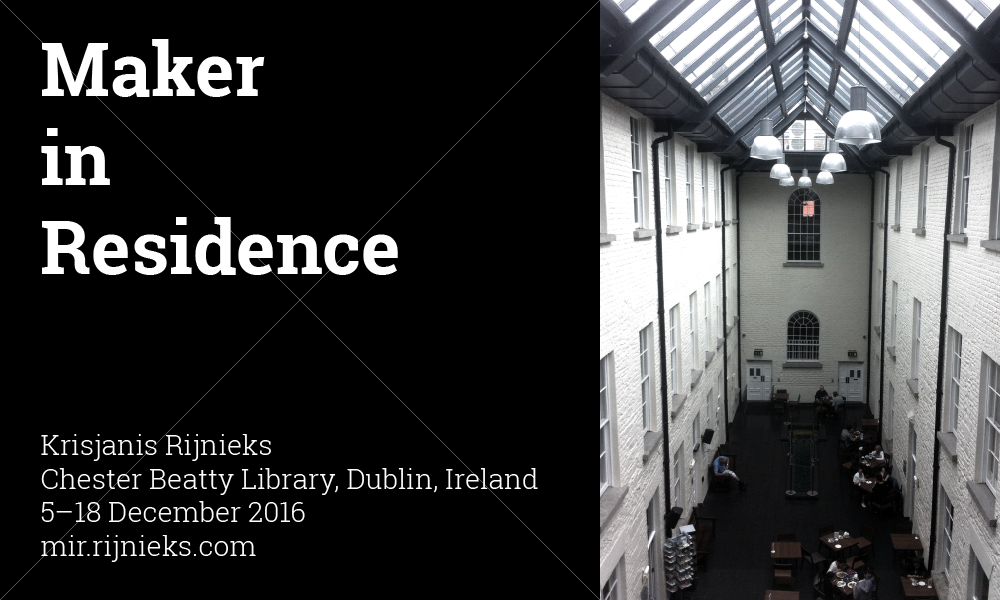
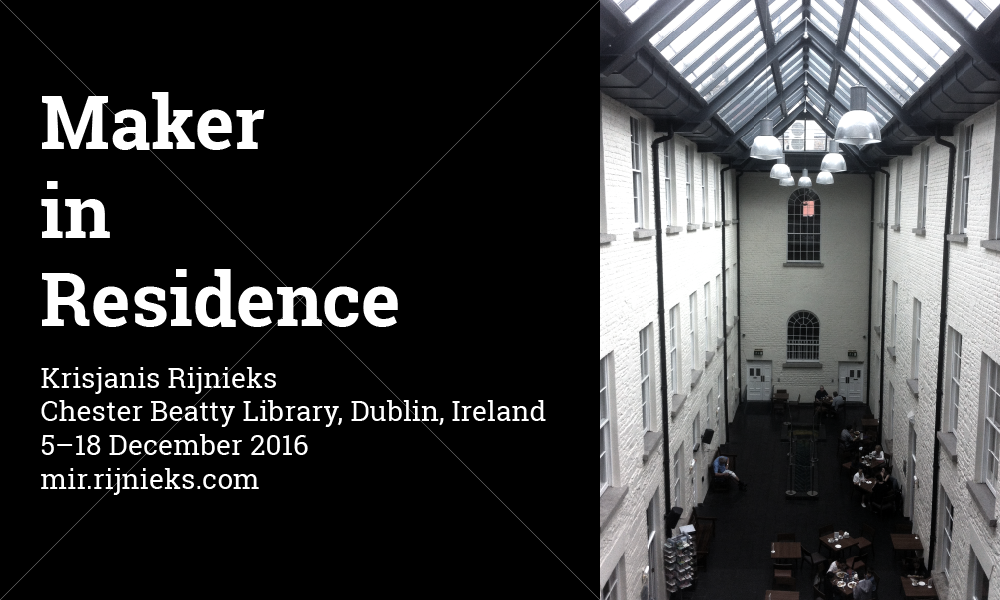
Update ogimage, center text

Changed region(s): [[0.031, 0.06, 0.403, 0.57], [0.031, 0.6, 0.558, 0.87], [0.031, 0.9, 0.248, 0.93]]

diff --git a/public/404.html b/public/404.html
@@ -14,7 +14,7 @@
   
 
   
-  <meta property="og:image" content="http://mir.rijnieks.com/maker-in-residence-facebook.png?v=1"/>
+  <meta property="og:image" content="http://mir.rijnieks.com/maker-in-residence-facebook.png"/>
   <meta property="og:title" content="Maker in Residence"/>
   <meta property="og:description" content="Krisjanis Rijnieks is Maker in Residence at the Chester Beatty Library in Dublin, Ireland. This blog documents the residency from 5 to 18 December 2016."/>
   <meta property="og:url" content="http://mir.rijnieks.com/"/>

diff --git a/public/about/index.html b/public/about/index.html
@@ -14,7 +14,7 @@
   
 
   
-  <meta property="og:image" content="http://mir.rijnieks.com/maker-in-residence-facebook.png?v=1"/>
+  <meta property="og:image" content="http://mir.rijnieks.com/maker-in-residence-facebook.png"/>
   <meta property="og:title" content="Maker in Residence"/>
   <meta property="og:description" content="Krisjanis Rijnieks is Maker in Residence at the Chester Beatty Library in Dublin, Ireland. This blog documents the residency from 5 to 18 December 2016."/>
   <meta property="og:url" content="http://mir.rijnieks.com/"/>

diff --git a/public/index.html b/public/index.html
@@ -14,7 +14,7 @@
   
 
   
-  <meta property="og:image" content="http://mir.rijnieks.com/maker-in-residence-facebook.png?v=1"/>
+  <meta property="og:image" content="http://mir.rijnieks.com/maker-in-residence-facebook.png"/>
   <meta property="og:title" content="Maker in Residence"/>
   <meta property="og:description" content="Krisjanis Rijnieks is Maker in Residence at the Chester Beatty Library in Dublin, Ireland. This blog documents the residency from 5 to 18 December 2016."/>
   <meta property="og:url" content="http://mir.rijnieks.com/"/>

diff --git a/public/post/index.html b/public/post/index.html
@@ -14,7 +14,7 @@
   
 
   
-  <meta property="og:image" content="http://mir.rijnieks.com/maker-in-residence-facebook.png?v=1"/>
+  <meta property="og:image" content="http://mir.rijnieks.com/maker-in-residence-facebook.png"/>
   <meta property="og:title" content="Maker in Residence"/>
   <meta property="og:description" content="Krisjanis Rijnieks is Maker in Residence at the Chester Beatty Library in Dublin, Ireland. This blog documents the residency from 5 to 18 December 2016."/>
   <meta property="og:url" content="http://mir.rijnieks.com/"/>

diff --git a/public/post/introduction/index.html b/public/post/introduction/index.html
@@ -14,7 +14,7 @@
   
 
   
-  <meta property="og:image" content="http://mir.rijnieks.com/maker-in-residence-facebook.png?v=1"/>
+  <meta property="og:image" content="http://mir.rijnieks.com/maker-in-residence-facebook.png"/>
   <meta property="og:title" content="Maker in Residence"/>
   <meta property="og:description" content="Krisjanis Rijnieks is Maker in Residence at the Chester Beatty Library in Dublin, Ireland. This blog documents the residency from 5 to 18 December 2016."/>
   <meta property="og:url" content="http://mir.rijnieks.com/"/>

diff --git a/public/post/some-sketches/index.html b/public/post/some-sketches/index.html
@@ -14,7 +14,7 @@
   
 
   
-  <meta property="og:image" content="http://mir.rijnieks.com/maker-in-residence-facebook.png?v=1"/>
+  <meta property="og:image" content="http://mir.rijnieks.com/maker-in-residence-facebook.png"/>
   <meta property="og:title" content="Maker in Residence"/>
   <meta property="og:description" content="Krisjanis Rijnieks is Maker in Residence at the Chester Beatty Library in Dublin, Ireland. This blog documents the residency from 5 to 18 December 2016."/>
   <meta property="og:url" content="http://mir.rijnieks.com/"/>

diff --git a/themes/hyde/layouts/partials/head.html b/themes/hyde/layouts/partials/head.html
@@ -16,7 +16,7 @@
   {{ end }}
 
   <!-- Facebook -->
-  <meta property="og:image" content="{{ .Site.BaseURL }}{{ .Site.Params.ogimage }}?v=1"/>
+  <meta property="og:image" content="{{ .Site.BaseURL }}{{ .Site.Params.ogimage }}"/>
   <meta property="og:title" content="{{ .Site.Title }}"/>
   <meta property="og:description" content="{{ .Site.Params.description }}"/>
   <meta property="og:url" content="{{ .Site.BaseURL }}"/>
